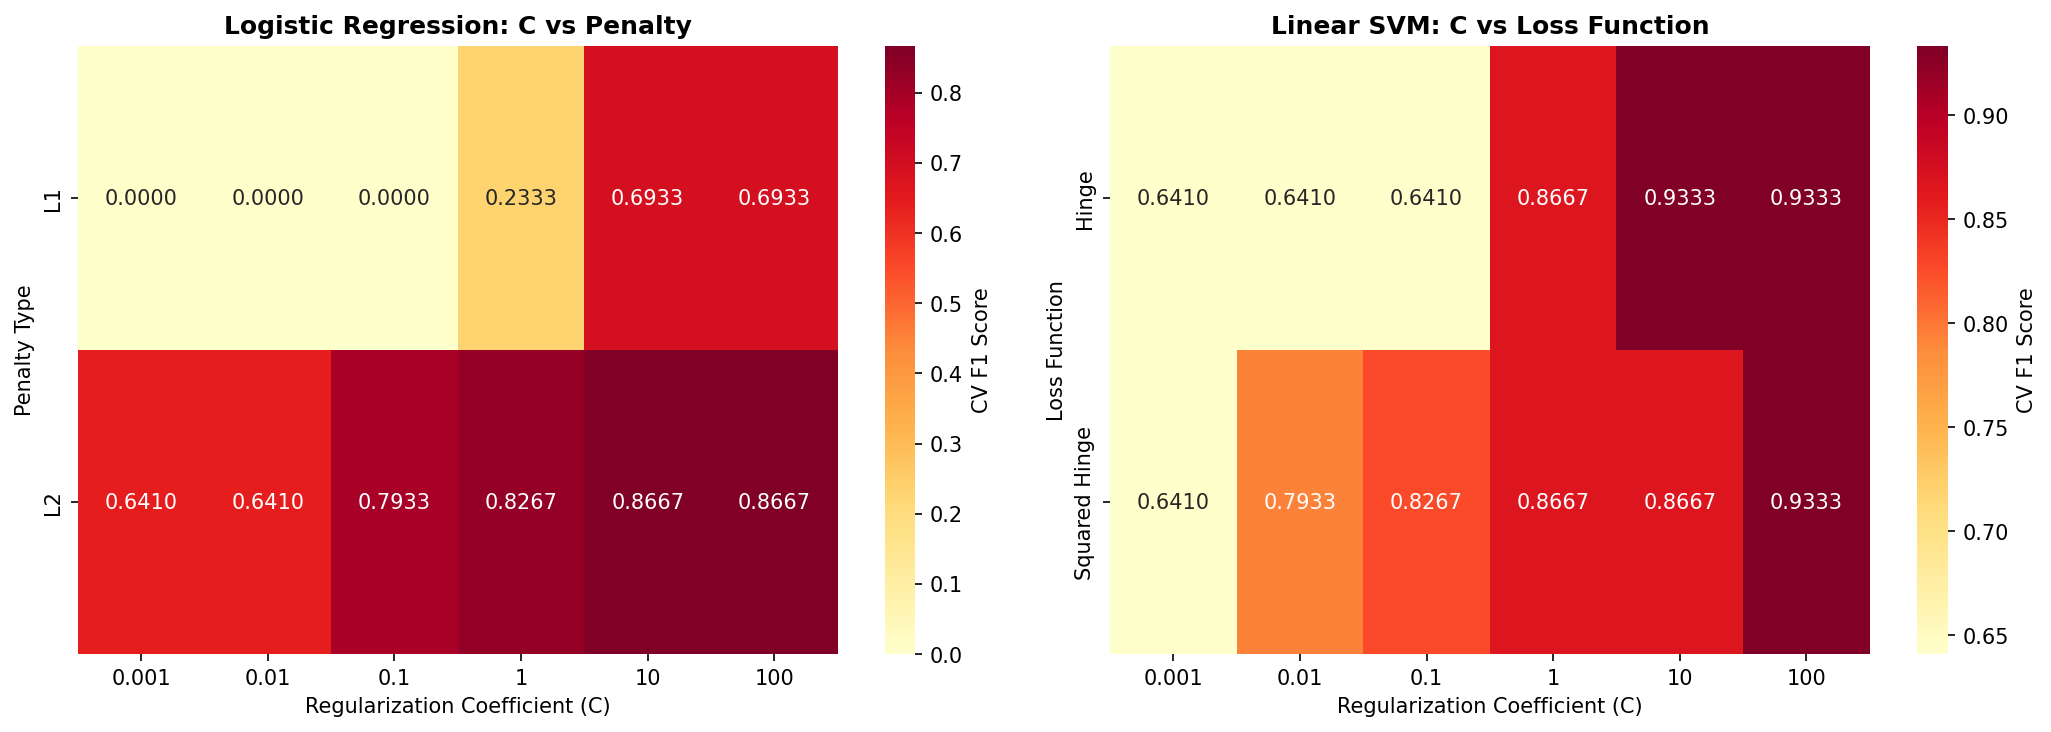
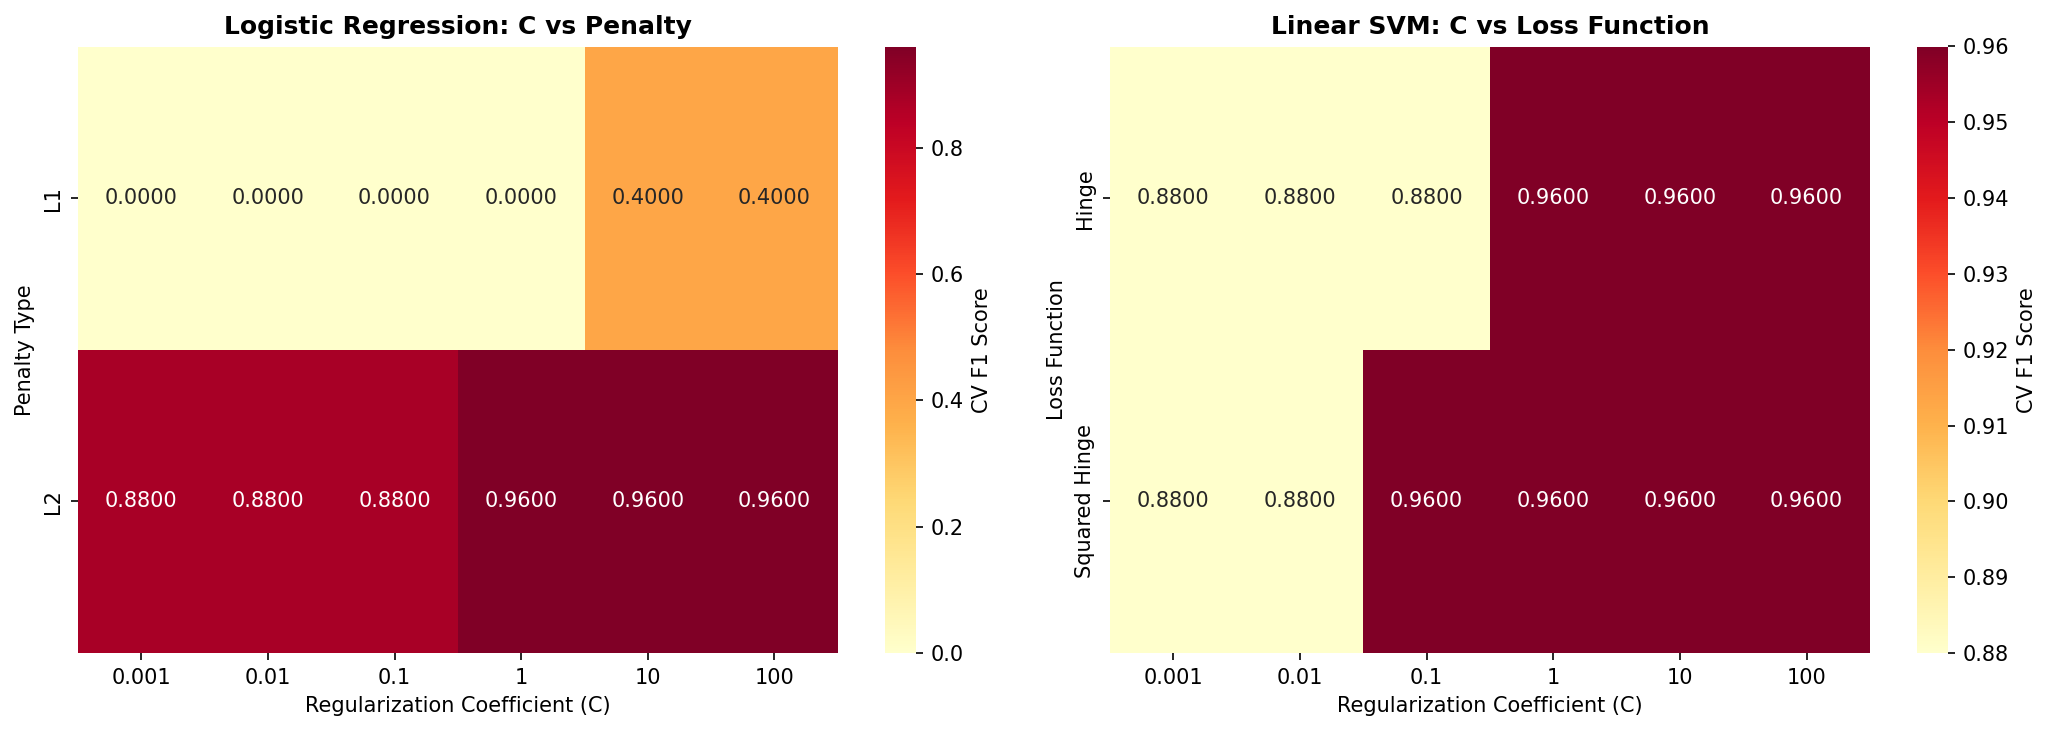
fix: 修复热力图路径、补全依赖、净化特征与分层划分
- task3/heatmap_visualization.py: 移除硬编码绝对路径，按脚本所在目录保存
  热力图（原路径指向不存在的 task2/，干净环境必崩）；补上缺失的
  f1_score import（原代码从未执行到该分支，修复后暴露 NameError）
- requirements.txt: 补全 scikit-learn/xgboost/matplotlib/seaborn/numpy，
  与 README 环境要求一致
- 删除 xgboost 2.x 已移除的 use_label_encoder 死参数
- 训练/验证/测试划分由随机 shuffle 改为分层划分（train_test_split +
  stratify），消除子集单类别时 f1_score/roc_auc_score 崩溃的风险
- 分词阶段过滤纯标点 token，净化 TF-IDF 词表与序列特征

diff --git a/task4/final_summary.py b/task4/final_summary.py
@@ -70,7 +70,8 @@ class TextPreprocessor:
 
     def tokenize(self, text: str) -> List[str]:
         tokens = jieba.cut(text)
-        return [t for t in tokens if t.strip() and t not in self.stop_words]
+        return [t for t in tokens if t.strip() and t not in self.stop_words
+                and not all(ch in '，。！？、；：,.!?;:' for ch in t)]
 
 class CustomTfidfVectorizer:
     def __init__(self, max_features: int = 1000):
@@ -177,13 +178,14 @@ def prepare_seq_data():
         seq = [word2idx.get(w, word2idx["<UNK>"]) for w in doc]
         sequences.append(seq)
 
-    n = len(sequences)
-    indices = list(range(n))
-    np.random.seed(42)
-    np.random.shuffle(indices)
-    train_idx = indices[:18]
-    val_idx = indices[18:24]
-    test_idx = indices[24:]
+    # 分层划分训练/验证/测试 (6:2:2)，保证各子集均含正负样本
+    indices = list(range(len(sequences)))
+    train_idx, temp_idx, _, temp_labels = train_test_split(
+        indices, labels, test_size=0.4, random_state=42, stratify=labels
+    )
+    val_idx, test_idx, _, _ = train_test_split(
+        temp_idx, temp_labels, test_size=0.5, random_state=42, stratify=temp_labels
+    )
 
     return (train_idx, val_idx, test_idx, sequences, labels, word2idx)
 
@@ -415,7 +417,7 @@ def main():
 
     # XGBoost
     print("\n--- [XGBoost] ---")
-    xgb_model = xgb.XGBClassifier(max_depth=3, learning_rate=0.1, n_estimators=50, subsample=0.8, random_state=42, use_label_encoder=False, eval_metric='logloss')
+    xgb_model = xgb.XGBClassifier(max_depth=3, learning_rate=0.1, n_estimators=50, subsample=0.8, random_state=42, eval_metric='logloss')
     xgb_model.fit(X_train, y_train)
     r = eval_sklearn_model(xgb_model, X_test, y_test)
     r['model'] = 'XGBoost'

diff --git a/task1/lstm_fixed.py b/task1/lstm_fixed.py
@@ -10,6 +10,7 @@ import torch.nn as nn
 from torch.utils.data import Dataset, DataLoader
 import numpy as np
 from sklearn.metrics import classification_report, f1_score, precision_score, recall_score, roc_auc_score
+from sklearn.model_selection import train_test_split
 
 # =====================================================================
 # 0. 数据
@@ -62,7 +63,8 @@ class TextPreprocessor:
 
     def tokenize(self, text: str) -> List[str]:
         tokens = jieba.cut(text)
-        return [t for t in tokens if t.strip() and t not in self.stop_words]
+        return [t for t in tokens if t.strip() and t not in self.stop_words
+                and not all(ch in '，。！？、；：,.!?;:' for ch in t)]
 
 
 # =====================================================================
@@ -186,15 +188,14 @@ def main():
         seq = [word2idx.get(w, word2idx["<UNK>"]) for w in doc]
         sequences.append(seq)
 
-    # 划分训练/验证/测试 (6:2:2)
-    n = len(sequences)
-    indices = list(range(n))
-    np.random.seed(42)
-    np.random.shuffle(indices)
-
-    train_idx = indices[:18]
-    val_idx = indices[18:24]
-    test_idx = indices[24:]
+    # 分层划分训练/验证/测试 (6:2:2)，保证各子集均含正负样本
+    indices = list(range(len(sequences)))
+    train_idx, temp_idx, _, temp_labels = train_test_split(
+        indices, labels, test_size=0.4, random_state=42, stratify=labels
+    )
+    val_idx, test_idx, _, _ = train_test_split(
+        temp_idx, temp_labels, test_size=0.5, random_state=42, stratify=temp_labels
+    )
 
     train_seqs = [sequences[i] for i in train_idx]
     train_labels = [labels[i] for i in train_idx]

diff --git a/task3/heatmap_visualization.py b/task3/heatmap_visualization.py
@@ -1,3 +1,4 @@
+import os
 import re
 import math
 from collections import Counter, defaultdict
@@ -13,6 +14,7 @@ warnings.filterwarnings("ignore", category=RuntimeWarning)
 from sklearn.model_selection import GridSearchCV, StratifiedKFold, train_test_split
 from sklearn.linear_model import LogisticRegression
 from sklearn.svm import LinearSVC
+from sklearn.metrics import f1_score
 import numpy as np
 import matplotlib.pyplot as plt
 import seaborn as sns
@@ -65,7 +67,8 @@ class TextPreprocessor:
 
     def tokenize(self, text: str) -> List[str]:
         tokens = jieba.cut(text)
-        return [t for t in tokens if t.strip() and t not in self.stop_words]
+        return [t for t in tokens if t.strip() and t not in self.stop_words
+                and not all(ch in '，。！？、；：,.!?;:' for ch in t)]
 
 class CustomTfidfVectorizer:
     def __init__(self, max_features: int = 1000):
@@ -247,8 +250,9 @@ axes[1].set_xlabel('Regularization Coefficient (C)')
 axes[1].set_ylabel('Loss Function')
 
 plt.tight_layout()
-plt.savefig('/Users/lee/ms-nlp-pipeline-task/task2/grid_search_heatmap.png', dpi=150, bbox_inches='tight')
-print("\n✅ 热力图已保存: task2/grid_search_heatmap.png")
+save_path = os.path.join(os.path.dirname(os.path.abspath(__file__)), 'grid_search_heatmap.png')
+plt.savefig(save_path, dpi=150, bbox_inches='tight')
+print(f"\n✅ 热力图已保存: {save_path}")
 plt.show()
 
 # =====================================================================

diff --git a/task4/deep_models_comparison.py b/task4/deep_models_comparison.py
@@ -64,7 +64,8 @@ class TextPreprocessor:
 
     def tokenize(self, text: str) -> List[str]:
         tokens = jieba.cut(text)
-        return [t for t in tokens if t.strip() and t not in self.stop_words]
+        return [t for t in tokens if t.strip() and t not in self.stop_words
+                and not all(ch in '，。！？、；：,.!?;:' for ch in t)]
 
 # =====================================================================
 # 1. TextCNN 模型
@@ -334,15 +335,14 @@ def main():
         seq = [word2idx.get(w, word2idx["<UNK>"]) for w in doc]
         sequences.append(seq)
 
-    # 划分数据 (6:2:2)
-    n = len(sequences)
-    indices = list(range(n))
-    np.random.seed(42)
-    np.random.shuffle(indices)
-
-    train_idx = indices[:18]
-    val_idx = indices[18:24]
-    test_idx = indices[24:]
+    # 分层划分训练/验证/测试 (6:2:2)，保证各子集均含正负样本
+    indices = list(range(len(sequences)))
+    train_idx, temp_idx, _, temp_labels = train_test_split(
+        indices, labels, test_size=0.4, random_state=42, stratify=labels
+    )
+    val_idx, test_idx, _, _ = train_test_split(
+        temp_idx, temp_labels, test_size=0.5, random_state=42, stratify=temp_labels
+    )
 
     train_seqs = [sequences[i] for i in train_idx]
     train_labels = [labels[i] for i in train_idx]

diff --git a/task4/tree_models_comparison.py b/task4/tree_models_comparison.py
@@ -64,7 +64,8 @@ class TextPreprocessor:
 
     def tokenize(self, text: str) -> List[str]:
         tokens = jieba.cut(text)
-        return [t for t in tokens if t.strip() and t not in self.stop_words]
+        return [t for t in tokens if t.strip() and t not in self.stop_words
+                and not all(ch in '，。！？、；：,.!?;:' for ch in t)]
 
 class CustomTfidfVectorizer:
     def __init__(self, max_features: int = 1000):
@@ -232,7 +233,7 @@ def main():
         'n_estimators': [50, 100],
         'subsample': [0.8, 1.0]
     }
-    xgb_grid = GridSearchCV(xgb.XGBClassifier(random_state=42, use_label_encoder=False, eval_metric='logloss'), 
+    xgb_grid = GridSearchCV(xgb.XGBClassifier(random_state=42, eval_metric='logloss'), 
                             xgb_params, cv=cv, scoring='f1', n_jobs=-1)
     xgb_grid.fit(X_train, y_train)
     print(f"✅ XGBoost 最优参数: {xgb_grid.best_params_}")

diff --git a/task1/ms_nlp_pipeline.py b/task1/ms_nlp_pipeline.py
@@ -48,9 +48,10 @@ class TextPreprocessor:
         return [s.strip() for s in sentences if s.strip()]
 
     def tokenize(self, text: str) -> List[str]:
-        """结巴分词并剔除停用词"""
+        """结巴分词并剔除停用词与标点"""
         tokens = jieba.cut(text)
-        return [t for t in tokens if t.strip() and t not in self.stop_words]
+        return [t for t in tokens if t.strip() and t not in self.stop_words
+                and not all(ch in '，。！？、；：,.!?;:' for ch in t)]
 
 
 # =====================================================================

diff --git a/task2/grid_search.py b/task2/grid_search.py
@@ -71,9 +71,10 @@ class TextPreprocessor:
         return re.sub(r'\s+', ' ', text).strip()
 
     def tokenize(self, text: str) -> List[str]:
-        """结巴分词并剔除停用词"""
+        """结巴分词并剔除停用词与标点"""
         tokens = jieba.cut(text)
-        return [t for t in tokens if t.strip() and t not in self.stop_words]
+        return [t for t in tokens if t.strip() and t not in self.stop_words
+                and not all(ch in '，。！？、；：,.!?;:' for ch in t)]
 
 
 # =====================================================================

diff --git a/task3/ablation_study.py b/task3/ablation_study.py
@@ -66,7 +66,8 @@ class TextPreprocessor:
 
     def tokenize(self, text: str) -> List[str]:
         tokens = jieba.cut(text)
-        return [t for t in tokens if t.strip() and t not in self.stop_words]
+        return [t for t in tokens if t.strip() and t not in self.stop_words
+                and not all(ch in '，。！？、；：,.!?;:' for ch in t)]
 
 
 # =====================================================================

diff --git a/task3/ngram_sentiment_features.py b/task3/ngram_sentiment_features.py
@@ -65,7 +65,8 @@ class TextPreprocessor:
 
     def tokenize(self, text: str) -> List[str]:
         tokens = jieba.cut(text)
-        return [t for t in tokens if t.strip() and t not in self.stop_words]
+        return [t for t in tokens if t.strip() and t not in self.stop_words
+                and not all(ch in '，。！？、；：,.!?;:' for ch in t)]
 
 
 # =====================================================================
